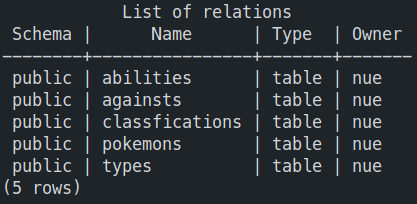
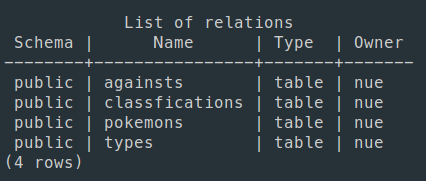
correct README

Changed region(s): [[0.0, 0.0, 0.9976, 0.9669]]

diff --git a/README.md b/README.md
@@ -4,11 +4,10 @@
 
 This repository create a pokemon database with all stats for each pokemon until 7 generation. In the data directory is stored the csv files that contains all data about pokemos, the csv files are:
 
-1. abilities.csv
-2. againsts.csv
-3. classfications.csv
-4. pokemons.csv
-5. types.csv
+1. againsts.csv
+2. classfications.csv
+3. pokemons.csv
+4. types.csv
 
 These csv files where created in the ***PkmDataBase.ipynb***, check the file to know how where created.
 
